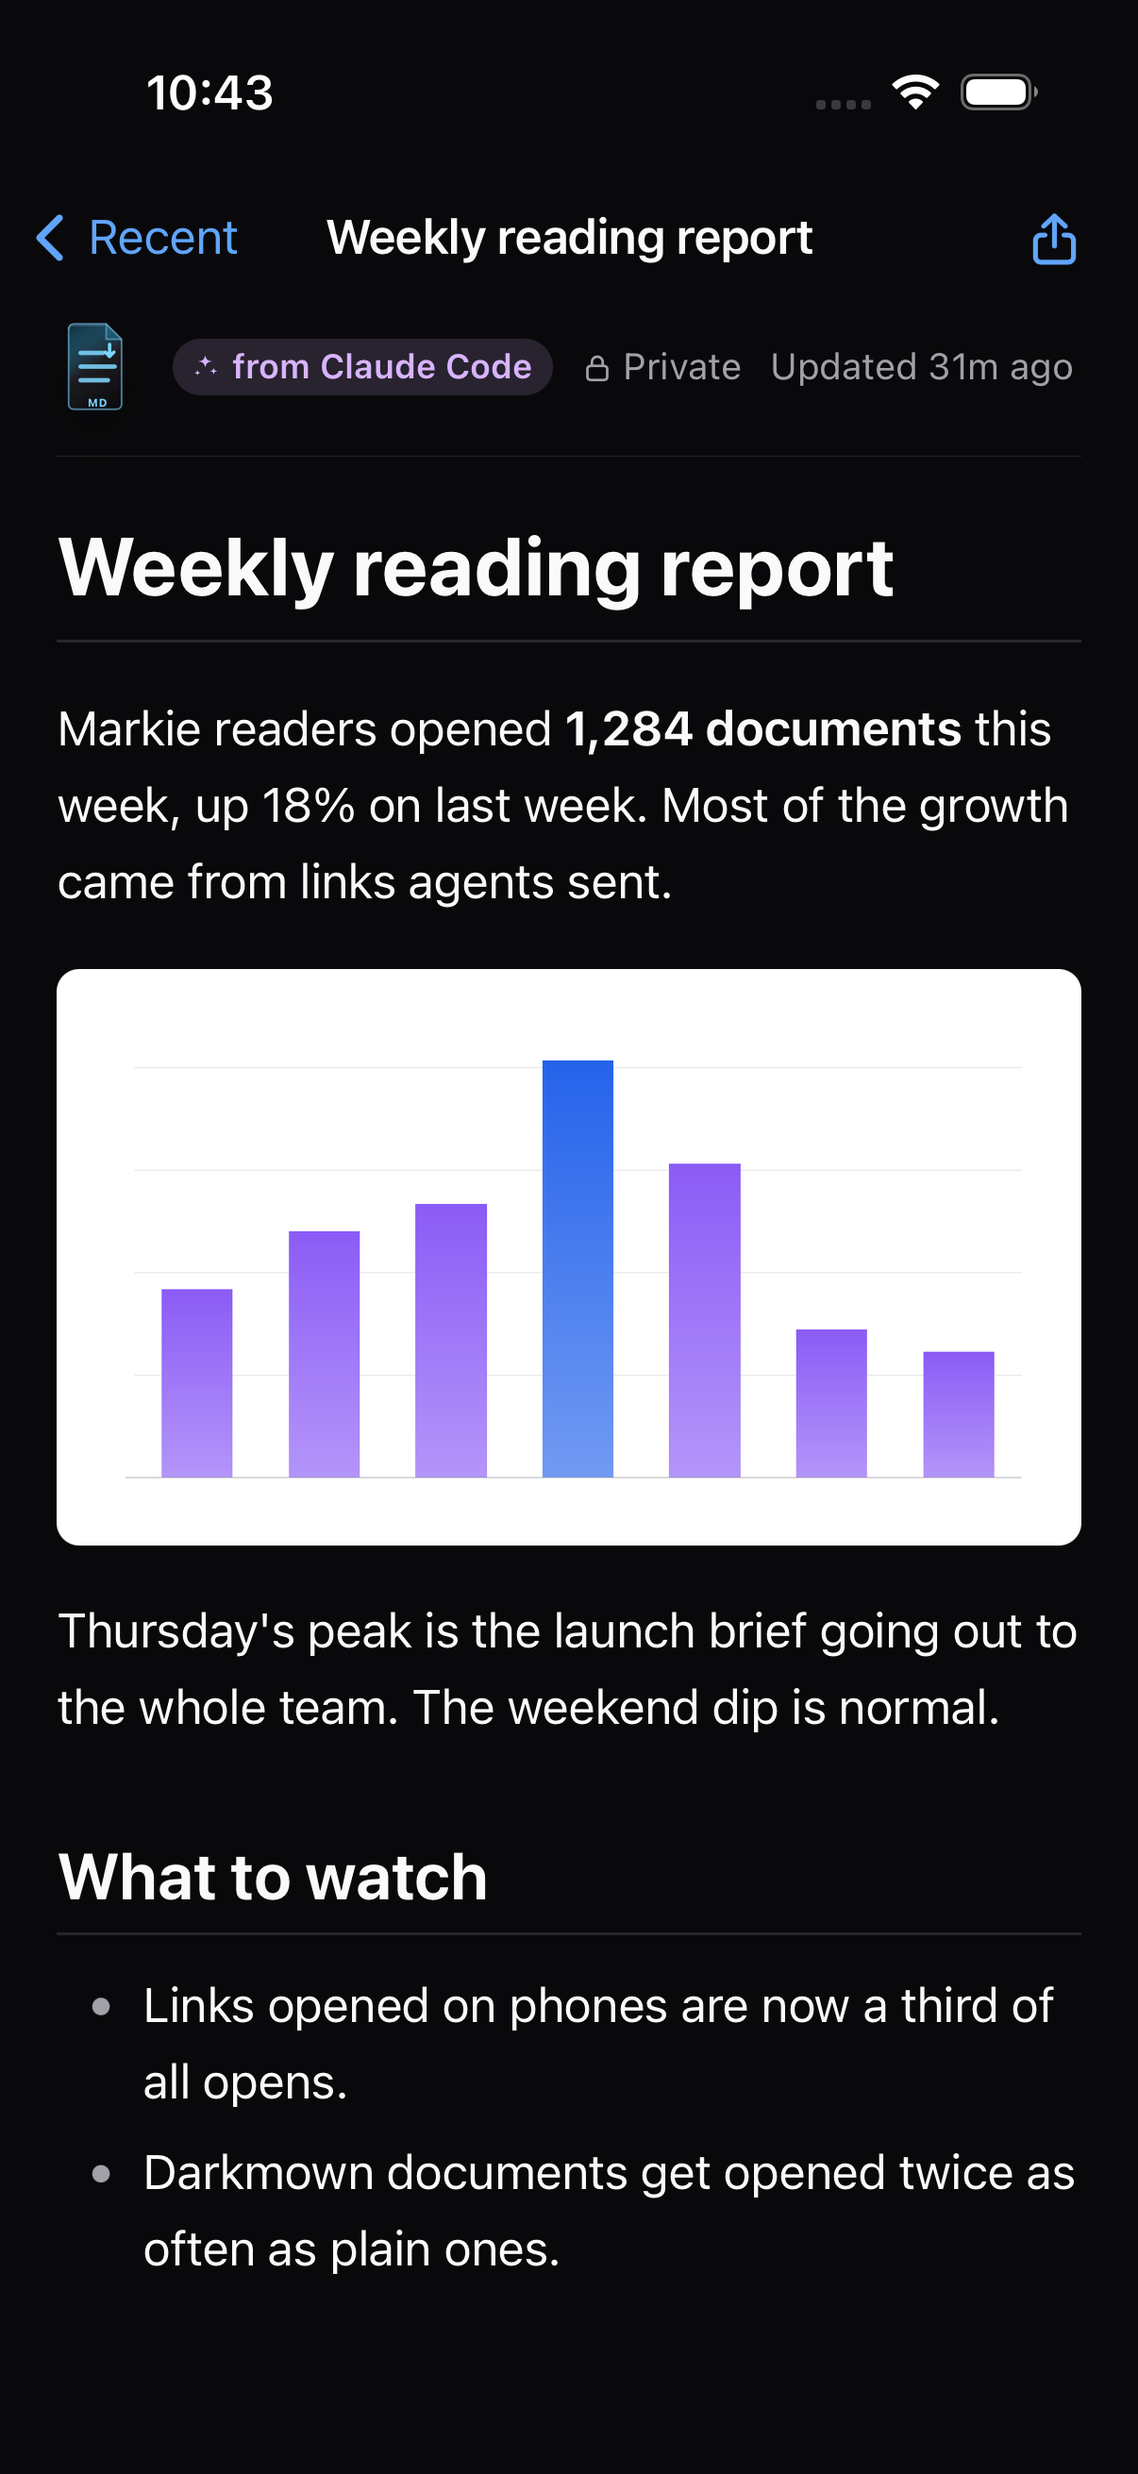
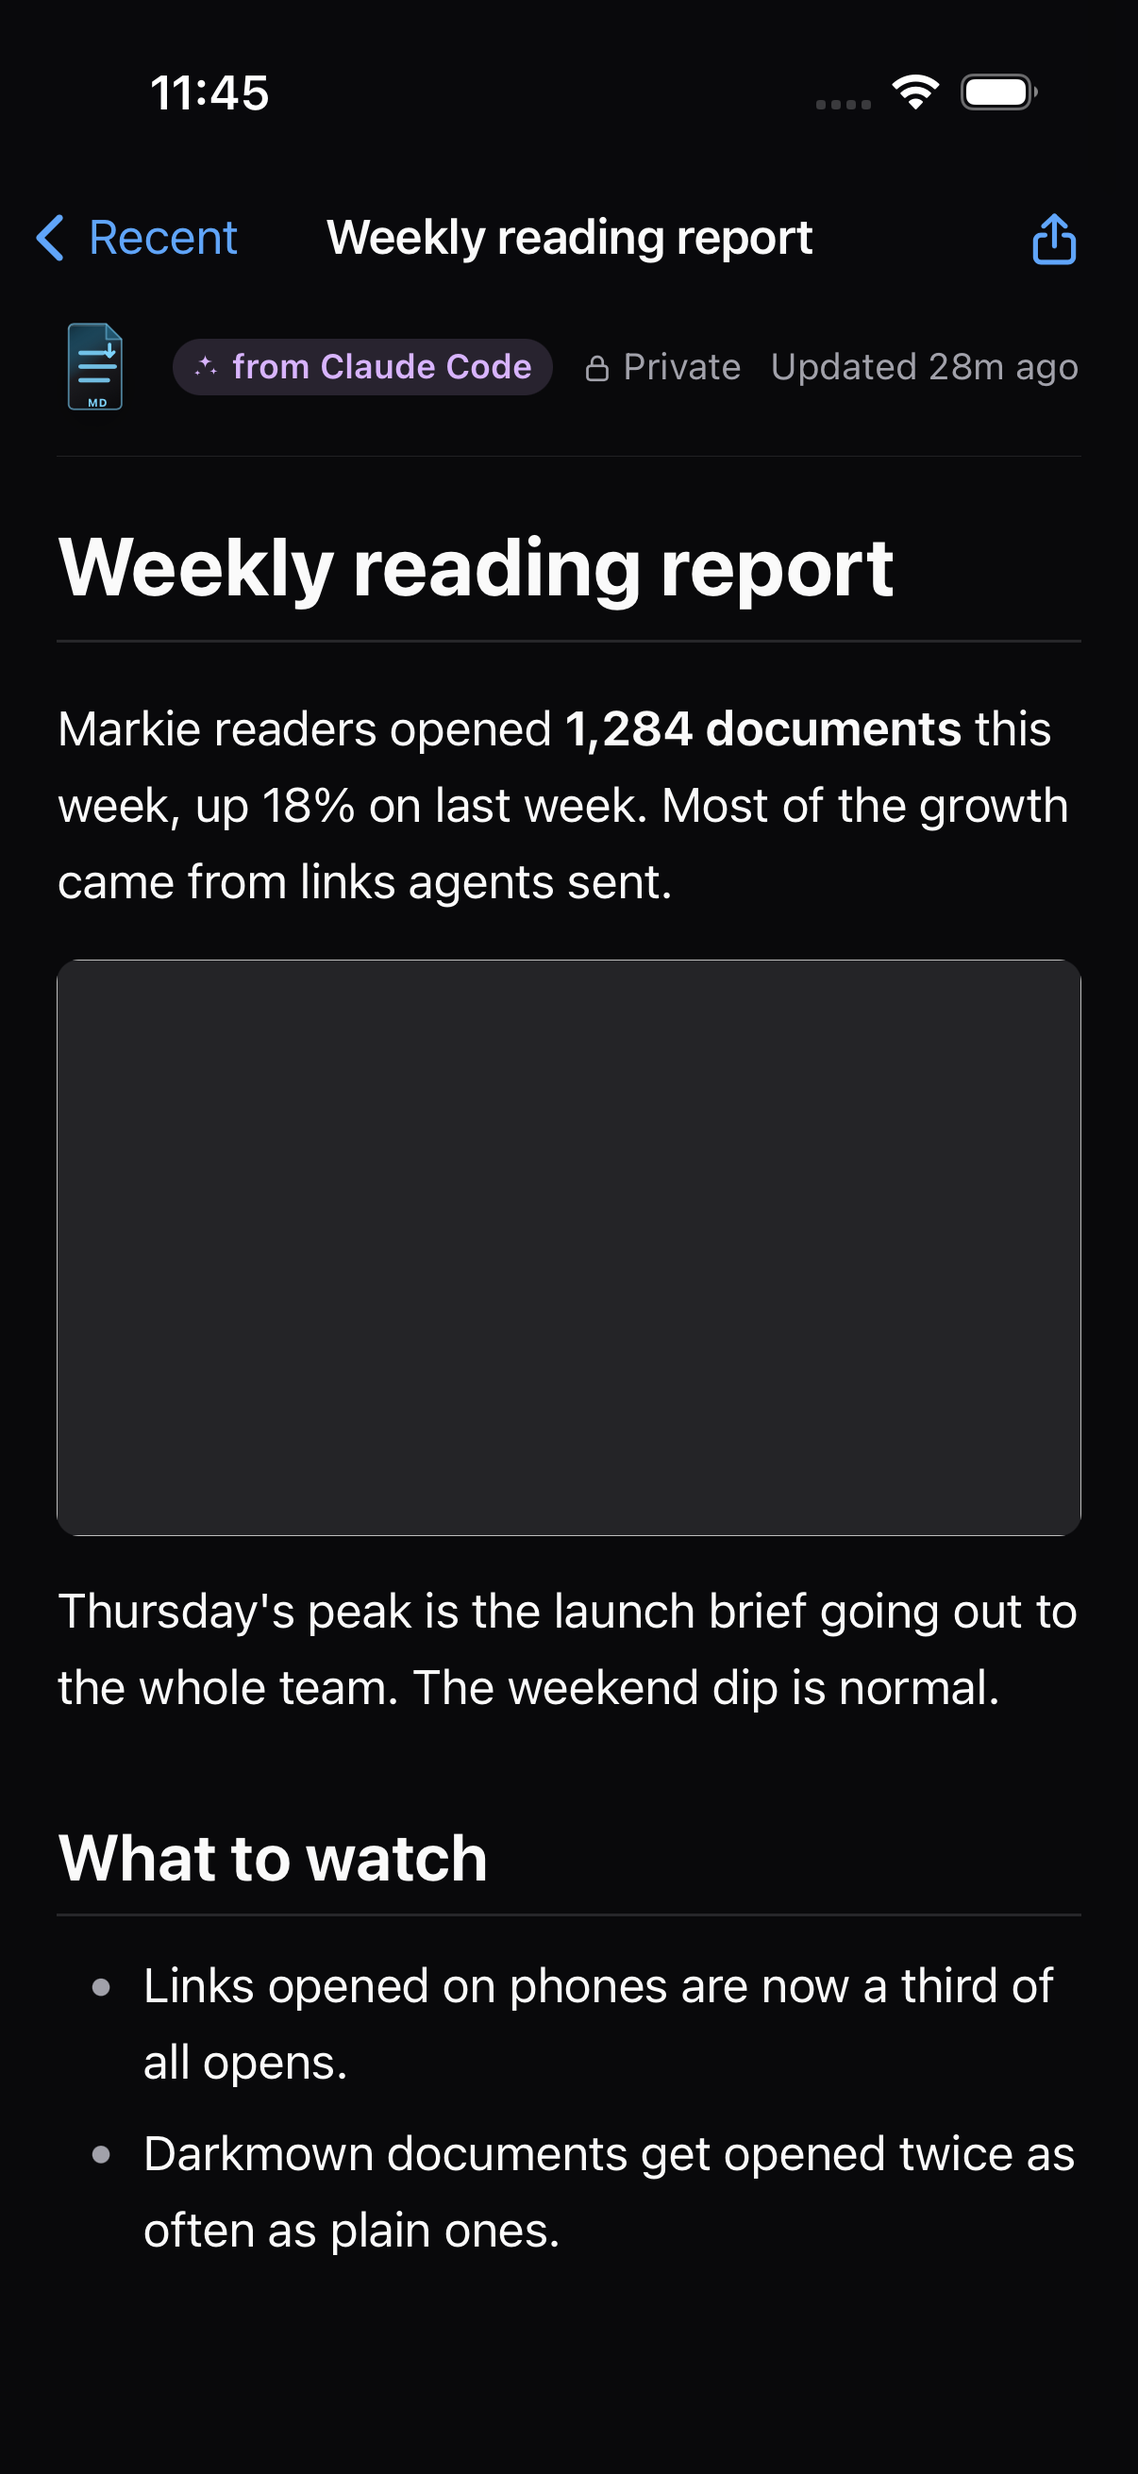
Stop a document's oversized pictures from costing the phone their full size, and fix the loading and scroll quirks the owner would notice
Constraint: The server allows a 100 MB asset and already answers Range on /assets/file, so the phone can bound the transfer itself
Rejected: HEAD before GET | one more round trip per picture, and the Range answer carries the total anyway
Rejected: Dropping overflow on .m-markdown | contain: paint alone clips but overflow: clip states the intent and removes the scroll container
Confidence: high
Scope-risk: narrow
Directive: A picture request must keep sending Range; a 206 whose Content-Range total is over 20 MB is refused, never shown as a slice
Tested: npm test in apps/mobile (112), root lint and typecheck, iOS Simulator and Android emulator against the mock server (95 MB pictures refused with 206 slices, anchor link to an off-edge target leaves the document in place, placeholder and loaded picture, code block with no scrollbar bar)
Not-tested: Real-server transfer of a picture over 20 MB on a physical device

diff --git a/apps/mobile/test/api.test.ts b/apps/mobile/test/api.test.ts
@@ -173,7 +173,41 @@ describe("api client: a document's own pictures", () => {
     const { transport, calls } = fake(() => ({ headers: { "content-type": "image/jpeg" }, bytes: png }));
     await createApiClient({ origin: ORIGIN, transport, getToken: () => TOKEN }).asset({ kind: "public", token: "pub_aaaaaaaaaaaaaaaaaaaa" }, "a.jpg");
     expect(calls[0].url).toBe(`${ORIGIN}/s/pub_aaaaaaaaaaaaaaaaaaaa/assets?ref=a.jpg`);
-    expect(calls[0].headers).toEqual({});
+    expect(calls[0].headers).toEqual({ range: "bytes=0-19999999" });
+  });
+
+  it("asks for at most 20 MB of any picture", async () => {
+    const { transport, calls } = fake(() => ({ status: 206, headers: { "content-type": "image/png", "content-range": "bytes 0-3/4" }, bytes: png }));
+    const blob = await createApiClient({ origin: ORIGIN, transport, getToken: () => TOKEN }).asset({ kind: "doc", id: "doc-1" }, "a.png");
+    expect(calls[0].headers).toEqual({ authorization: `Bearer ${TOKEN}`, range: "bytes=0-19999999" });
+    expect(blob?.size).toBe(4);
+  });
+
+  it("shows a picture whose whole size is exactly the cap", async () => {
+    const { transport } = fake(() => ({ status: 206, headers: { "content-type": "image/png", "content-range": "bytes 0-19999999/20000000" }, bytes: new Uint8Array(20_000_000) }));
+    expect((await createApiClient({ origin: ORIGIN, transport, getToken: () => TOKEN }).asset({ kind: "doc", id: "doc-1" }, "a.png"))?.size).toBe(20_000_000);
+  });
+
+  it("refuses a picture the server says is bigger than the cap, without keeping the slice", async () => {
+    const { transport } = fake(() => ({ status: 206, headers: { "content-type": "image/png", "content-range": "bytes 0-19999999/95000000" }, bytes: new Uint8Array(20_000_000) }));
+    expect(await createApiClient({ origin: ORIGIN, transport, getToken: () => TOKEN }).asset({ kind: "doc", id: "doc-1" }, "huge.png")).toBeNull();
+  });
+
+  it("refuses a slice that doesn't say how big the whole is", async () => {
+    const none = fake(() => ({ status: 206, headers: { "content-type": "image/png" }, bytes: png }));
+    expect(await createApiClient({ origin: ORIGIN, transport: none.transport, getToken: () => TOKEN }).asset({ kind: "doc", id: "doc-1" }, "x.png")).toBeNull();
+    const unknown = fake(() => ({ status: 206, headers: { "content-type": "image/png", "content-range": "bytes 0-3/*" }, bytes: png }));
+    expect(await createApiClient({ origin: ORIGIN, transport: unknown.transport, getToken: () => TOKEN }).asset({ kind: "doc", id: "doc-1" }, "x.png")).toBeNull();
+  });
+
+  it("refuses a picture from a server that ignored the range and sent more than the cap", async () => {
+    const { transport } = fake(() => ({ status: 200, headers: { "content-type": "image/png" }, bytes: new Uint8Array(20_000_001) }));
+    expect(await createApiClient({ origin: ORIGIN, transport, getToken: () => TOKEN }).asset({ kind: "doc", id: "doc-1" }, "huge.png").catch((error) => error)).toMatchObject({ status: 413 });
+  });
+
+  it("shows a small picture from a server that ignored the range", async () => {
+    const { transport } = fake(() => ({ status: 200, headers: { "content-type": "image/png" }, bytes: png }));
+    expect((await createApiClient({ origin: ORIGIN, transport, getToken: () => TOKEN }).asset({ kind: "doc", id: "doc-1" }, "a.png"))?.size).toBe(4);
   });
 
   it("shows nothing for a missing picture, a non-image, or a bad id", async () => {

diff --git a/apps/mobile/test/document-html.test.ts b/apps/mobile/test/document-html.test.ts
@@ -95,7 +95,57 @@ describe("the article a document is shown in", () => {
     expect(rule).toMatch(/contain:\s*paint/);
     expect(rule).toMatch(/isolation:\s*isolate/);
     expect(rule).toMatch(/position:\s*relative/);
-    expect(rule).toMatch(/overflow:\s*hidden/);
+    // clip, not hidden: hidden makes the article a scroll container, and an
+    // in-page link to a target past its edge scrolled the document out of view.
+    expect(rule).toMatch(/overflow:\s*clip/);
+    expect(rule).not.toMatch(/overflow:\s*(hidden|auto|scroll)/);
+  });
+
+  it("styles every highlight token for the light page, and keeps the picture placeholder calm", () => {
+    const css = readFileSync(resolve(dirname(fileURLToPath(import.meta.url)), "../src/styles.css"), "utf8");
+    // Every token github-dark colors, that the light block must repaint.
+    const dark = readFileSync(resolve(dirname(fileURLToPath(import.meta.url)), "../../../node_modules/highlight.js/styles/github-dark.css"), "utf8")
+      .replace(/\/\*[\s\S]*?\*\//g, "");
+    const colored = new Set<string>();
+    for (const [, selectors, body] of dark.matchAll(/([^{}]+)\{([^}]*)\}/g)) {
+      if (!/color:/.test(body) || selectors.includes("pre code") || /^\s*code\.hljs/.test(selectors) || /^\s*\.hljs\s*$/.test(selectors)) continue;
+      for (const selector of selectors.split(",")) {
+        const last = selector.trim().replace(/^.*\s/, "");
+        if (last.startsWith(".hljs-")) colored.add(last.replace(/\.inherited__$/, ""));
+      }
+    }
+    const light = css.split("\n").filter((line) => line.startsWith(':root[data-theme-tone="light"] .m-markdown .hljs-')).join("\n");
+    for (const token of colored) expect(light, token).toContain(`.m-markdown ${token}`);
+    expect(light).toMatch(/\.hljs-subst[^{]*\{[^}]*#1f2328/);
+
+    const placeholder = /\.m-markdown img\[data-markie-asset-state="loading"\] \{([^}]*)\}/.exec(css)?.[1] ?? "";
+    expect(placeholder).toMatch(/color:\s*transparent/);
+    expect(placeholder).toMatch(/border:\s*0/);
+  });
+
+  it("loads at most three pictures at once", async () => {
+    (globalThis as { IS_REACT_ACT_ENVIRONMENT?: boolean }).IS_REACT_ACT_ENVIRONMENT = true;
+    vi.stubGlobal("URL", Object.assign(URL, { createObjectURL: () => "blob:test/x", revokeObjectURL: vi.fn() }));
+    let inFlight = 0;
+    let peak = 0;
+    const loadAsset = vi.fn(async () => {
+      inFlight += 1;
+      peak = Math.max(peak, inFlight);
+      await new Promise((resolve) => setTimeout(resolve, 5));
+      inFlight -= 1;
+      return null;
+    });
+    const host = document.createElement("div");
+    document.body.append(host);
+    const root = createRoot(host);
+    await act(async () => {
+      root.render(createElement(MarkdownView, { content: Array.from({ length: 9 }, (_, i) => `![p${i}](p${i}.png)`).join("\n\n"), onLink: () => undefined, loadAsset }));
+    });
+    await act(async () => { await new Promise((resolve) => setTimeout(resolve, 60)); });
+    expect(loadAsset).toHaveBeenCalledTimes(9);
+    expect(peak).toBe(3);
+    act(() => root.unmount());
+    vi.unstubAllGlobals();
   });
 
   it("renders a hostile document inside that article, without the app's classes, and loads its pictures as blob URLs", async () => {

diff --git a/apps/mobile/src/styles.css b/apps/mobile/src/styles.css
@@ -246,16 +246,20 @@ input {
 }
 
 /* Android's web view draws an overlay scrollbar, and its track sits over the
-   nav bar's right edge. Neither platform's own lists show one at rest. */
+   nav bar's right edge. Neither platform's own lists show one at rest.
+   A highlighted code block scrolls in its own `code.hljs` (display: block,
+   overflow-x: auto), not only in the `pre`, so that one needs it too. */
 .m-screen-body,
 .m-markdown .m-table-scroll,
-.m-markdown pre {
+.m-markdown pre,
+.m-markdown pre code {
   scrollbar-width: none;
 }
 
 .m-screen-body::-webkit-scrollbar,
 .m-markdown .m-table-scroll::-webkit-scrollbar,
-.m-markdown pre::-webkit-scrollbar {
+.m-markdown pre::-webkit-scrollbar,
+.m-markdown pre code::-webkit-scrollbar {
   display: none;
 }
 
@@ -1100,7 +1104,9 @@ input {
   position: relative;
   isolation: isolate;
   contain: paint;
-  overflow: hidden;
+  /* clip, not hidden: hidden makes the article a scroll container, and an
+     in-page link to a target past its edge scrolled the article sideways. */
+  overflow: clip;
 }
 
 .m-markdown h1 {
@@ -1146,13 +1152,21 @@ input {
   font-size: 0.92em;
 }
 
-/* A synced picture while it loads, and the alt text if it can't. */
+/* A synced picture while it loads: a calm block, with no alt text and no
+   broken-image border. The picture takes its own size once it arrives. */
 .m-markdown img[data-markie-asset-state="loading"] {
   display: block;
   width: 100%;
   aspect-ratio: 16 / 9;
+  border: 0;
   border-radius: 8px;
   background: var(--m-field-bg);
+  color: transparent;
+  font-size: 0;
+  overflow: hidden;
+  /* An img with no src draws a broken-image icon on Android. Replacing its
+     content with an empty image leaves only the block. */
+  content: linear-gradient(transparent, transparent);
 }
 
 .m-markdown .m-asset-missing {
@@ -1182,8 +1196,10 @@ input {
 
 /* github-dark's token colors are made for a dark page. On the light page
    they take github's own light palette, so code stays legible. */
+:root[data-theme-tone="light"] .m-markdown .hljs-doctag,
 :root[data-theme-tone="light"] .m-markdown .hljs-keyword,
 :root[data-theme-tone="light"] .m-markdown .hljs-meta .hljs-keyword,
+:root[data-theme-tone="light"] .m-markdown .hljs-template-variable,
 :root[data-theme-tone="light"] .m-markdown .hljs-template-tag,
 :root[data-theme-tone="light"] .m-markdown .hljs-type,
 :root[data-theme-tone="light"] .m-markdown .hljs-variable.language_ { color: #cf222e; }
@@ -1212,6 +1228,9 @@ input {
 :root[data-theme-tone="light"] .m-markdown .hljs-quote,
 :root[data-theme-tone="light"] .m-markdown .hljs-selector-tag,
 :root[data-theme-tone="light"] .m-markdown .hljs-selector-pseudo { color: #116329; }
+:root[data-theme-tone="light"] .m-markdown .hljs-subst,
+:root[data-theme-tone="light"] .m-markdown .hljs-emphasis,
+:root[data-theme-tone="light"] .m-markdown .hljs-strong { color: #1f2328; }
 :root[data-theme-tone="light"] .m-markdown .hljs-section { color: #0550ae; font-weight: 700; }
 :root[data-theme-tone="light"] .m-markdown .hljs-bullet { color: #953800; }
 :root[data-theme-tone="light"] .m-markdown .hljs-addition { color: #116329; background-color: #dafbe1; }

diff --git a/apps/mobile/src/lib/api.ts b/apps/mobile/src/lib/api.ts
@@ -21,8 +21,10 @@ import { NetworkError, type HttpResponse, type HttpTransport } from "./http";
 // for the desktop's raw text route). The phone refuses to hold more than this
 // in one answer rather than stall the web view.
 const MAX_RESPONSE_CHARS = 24_000_000;
-// One picture inside a document. The server caps an asset at 50 MB; a phone
-// shows a picture far smaller than that or none at all.
+// One picture inside a document. The server allows an asset up to 100 MB
+// (server/src/assets.ts); a phone shows a picture far smaller than that or none
+// at all. Every picture request asks for only this many bytes, so a larger one
+// costs the first 20 MB at most, never the whole file.
 const MAX_ASSET_BYTES = 20_000_000;
 const ASSET_TIMEOUT_MS = 15_000;
 const MAX_ERROR_CHARS = 512;
@@ -84,7 +86,7 @@ export function createApiClient(options: ApiClientOptions) {
   async function send(
     method: "GET" | "POST",
     path: string,
-    { body, auth = true, timeoutMs, binary = false }: { body?: unknown; auth?: boolean; timeoutMs?: number; binary?: boolean } = {}
+    { body, auth = true, timeoutMs, binary = false, headers: extra }: { body?: unknown; auth?: boolean; timeoutMs?: number; binary?: boolean; headers?: Record<string, string> } = {}
   ): Promise<HttpResponse> {
     const token = auth ? options.getToken?.() ?? null : null;
     let response: HttpResponse;
@@ -92,7 +94,7 @@ export function createApiClient(options: ApiClientOptions) {
       response = await transport({
         method,
         url: `${origin}${path}`,
-        headers: token ? { authorization: `Bearer ${token}` } : {},
+        headers: { ...(token ? { authorization: `Bearer ${token}` } : {}), ...extra },
         body,
         timeoutMs,
         ...(binary ? { responseType: "binary" as const } : {}),
@@ -240,8 +242,20 @@ export function createApiClient(options: ApiClientOptions) {
         if (!PUBLIC_TOKEN.test(source.token)) return null;
         path = `/s/${encodeURIComponent(source.token)}/assets?${query}`;
       }
-      const response = await send("GET", path, { auth: source.kind === "doc", binary: true, timeoutMs: ASSET_TIMEOUT_MS });
-      if (response.status !== 200 || !response.bytes) return null;
+      const response = await send("GET", path, {
+        auth: source.kind === "doc",
+        binary: true,
+        timeoutMs: ASSET_TIMEOUT_MS,
+        headers: { range: `bytes=0-${MAX_ASSET_BYTES - 1}` },
+      });
+      if ((response.status !== 200 && response.status !== 206) || !response.bytes) return null;
+      // A slice of a bigger picture is half a picture: refuse it. A server
+      // that ignored the range answers 200, and send() has already refused
+      // anything over the cap.
+      if (response.status === 206) {
+        const total = /^bytes \d+-\d+\/(\d+)$/.exec(response.headers["content-range"] ?? "")?.[1];
+        if (!total || Number(total) > MAX_ASSET_BYTES) return null;
+      }
       const type = (response.headers["content-type"] ?? "").split(";")[0].trim().toLowerCase();
       if (!/^image\/[a-z0-9.+-]+$/.test(type)) return null;
       return new Blob([response.bytes as BlobPart], { type });

diff --git a/apps/mobile/test/mock-server.test.ts b/apps/mobile/test/mock-server.test.ts
@@ -68,6 +68,19 @@ describe("against the mock server", () => {
     expect((await api.asset({ kind: "public", token: "pub_reading_report_demo_token" }, "charts/opened-per-day.png"))?.size).toBe(chart!.size);
     expect(await api.asset({ kind: "doc", id: "reading-report" }, "charts/missing.png")).toBeNull();
 
+    // A 95 MB picture: the app asks for the first 20 MB, sees the whole is
+    // bigger, and shows "not available". The mock answers a range like the
+    // real server does, so the transfer is the slice and not the file.
+    expect(await api.asset({ kind: "doc", id: "edge-cases" }, "charts/huge.png")).toBeNull();
+    const url = `${origin}/api/docs/edge-cases/assets/file?ref=charts%2Fhuge.png`;
+    const sliced = await fetch(url, { headers: { authorization: `Bearer ${token}`, range: "bytes=0-19999999" } });
+    expect(sliced.status).toBe(206);
+    expect(sliced.headers.get("content-range")).toBe("bytes 0-19999999/95000000");
+    expect((await sliced.arrayBuffer()).byteLength).toBe(20_000_000);
+    const tail = await fetch(url, { headers: { authorization: `Bearer ${token}`, range: "bytes=-10" } });
+    expect(tail.headers.get("content-range")).toBe("bytes 94999990-94999999/95000000");
+    expect((await fetch(url, { headers: { authorization: `Bearer ${token}`, range: "bytes=95000000-" } })).status).toBe(416);
+
     await api.signOut();
     await expect(api.recent()).rejects.toMatchObject({ status: 401 });
   });

diff --git a/apps/mobile/src/lib/native-http.ts b/apps/mobile/src/lib/native-http.ts
@@ -16,7 +16,12 @@
 // - Cookies are cleared after every response. Both platforms' stacks keep
 //   Set-Cookie in a shared jar on their own, and better-auth sets its session
 //   cookie on sign-in. A copy of the session in a cookie jar would be a second,
-//   unencrypted credential that outlives "Sign out", so none is ever kept.
+//   unencrypted credential that outlives "Sign out", so none is left behind:
+//   the jar is emptied as each request settles, and nothing persists past it.
+//   It is not empty at every instant. A Set-Cookie on one answer can ride along
+//   on a request that is already in flight to the same server (a picture
+//   loading beside a sign-in), until that answer's own clear runs. The cookie
+//   only ever goes back to the server that set it, and is gone a moment later.
 import { CapacitorCookies, CapacitorHttp } from "@capacitor/core";
 import { bytesFromBase64, lowerCaseHeaders, NetworkError, type HttpRequest, type HttpTransport } from "./http";
 

diff --git a/apps/mobile/src/components/markdown-view.tsx b/apps/mobile/src/components/markdown-view.tsx
@@ -9,7 +9,8 @@ import { renderMarkdownHTML } from "@/lib/markdown-html";
 import { splitFrontMatter } from "@/lib/front-matter";
 import { ASSET_ATTR, ASSET_STATE_ATTR, markAssetMissing, prepareDocumentHtml } from "../lib/document-html";
 
-const ASSET_CONCURRENCY = 4;
+// A few at a time: each answer is held in memory until its picture decodes.
+const ASSET_CONCURRENCY = 3;
 
 interface MarkdownViewProps {
   content: string;
